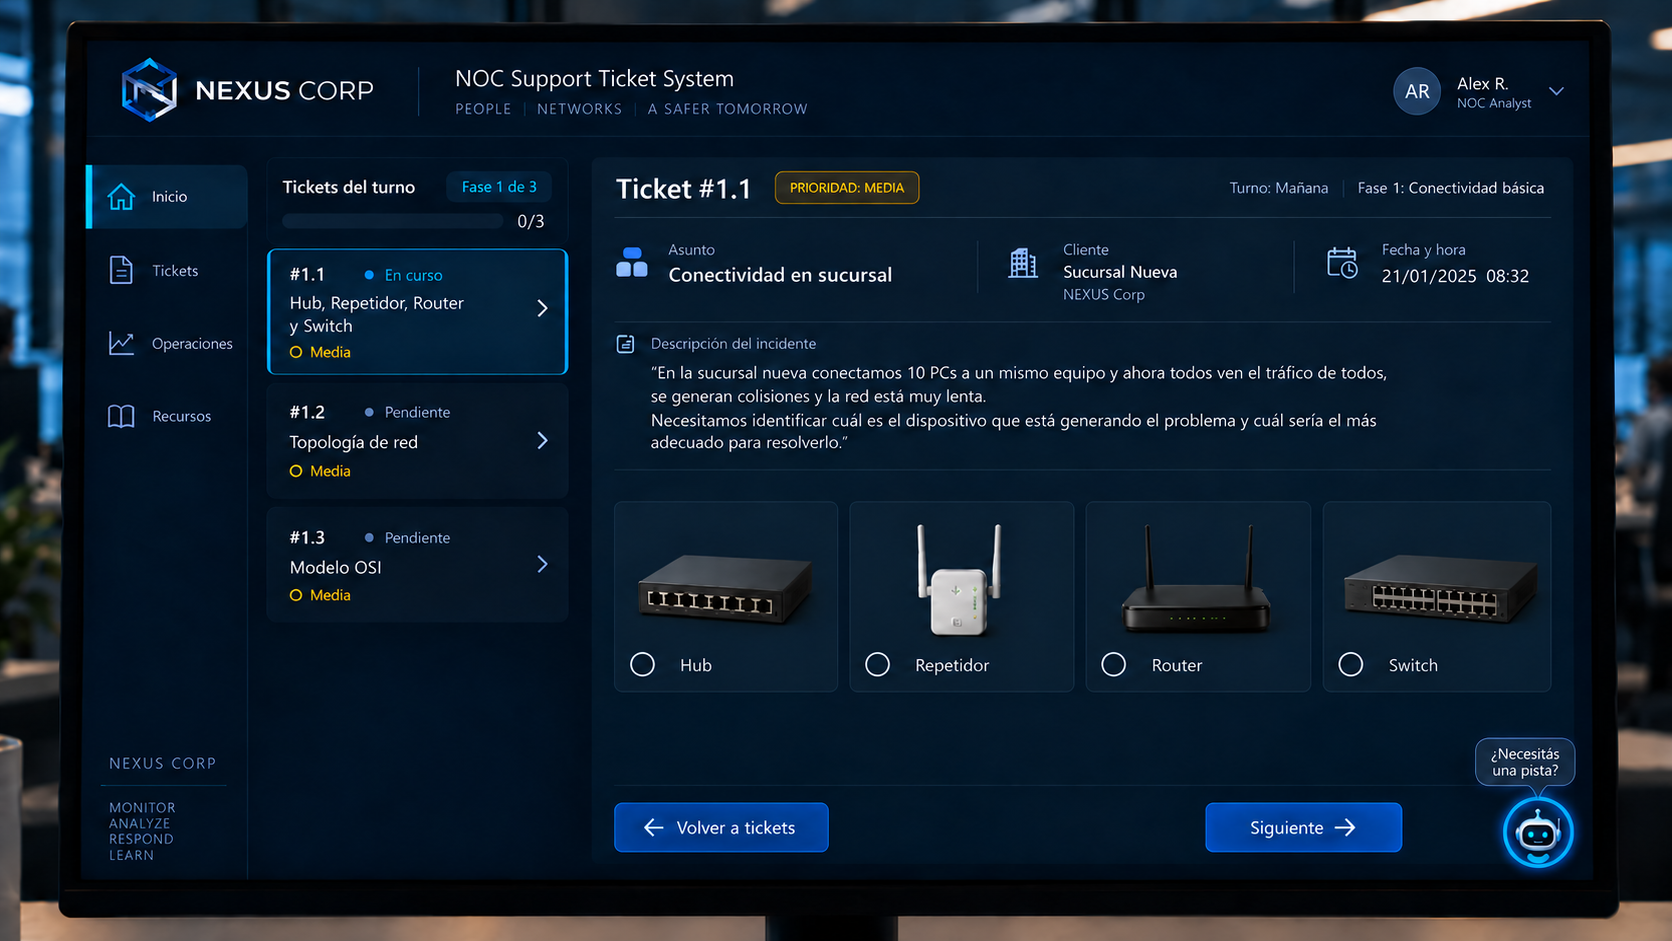
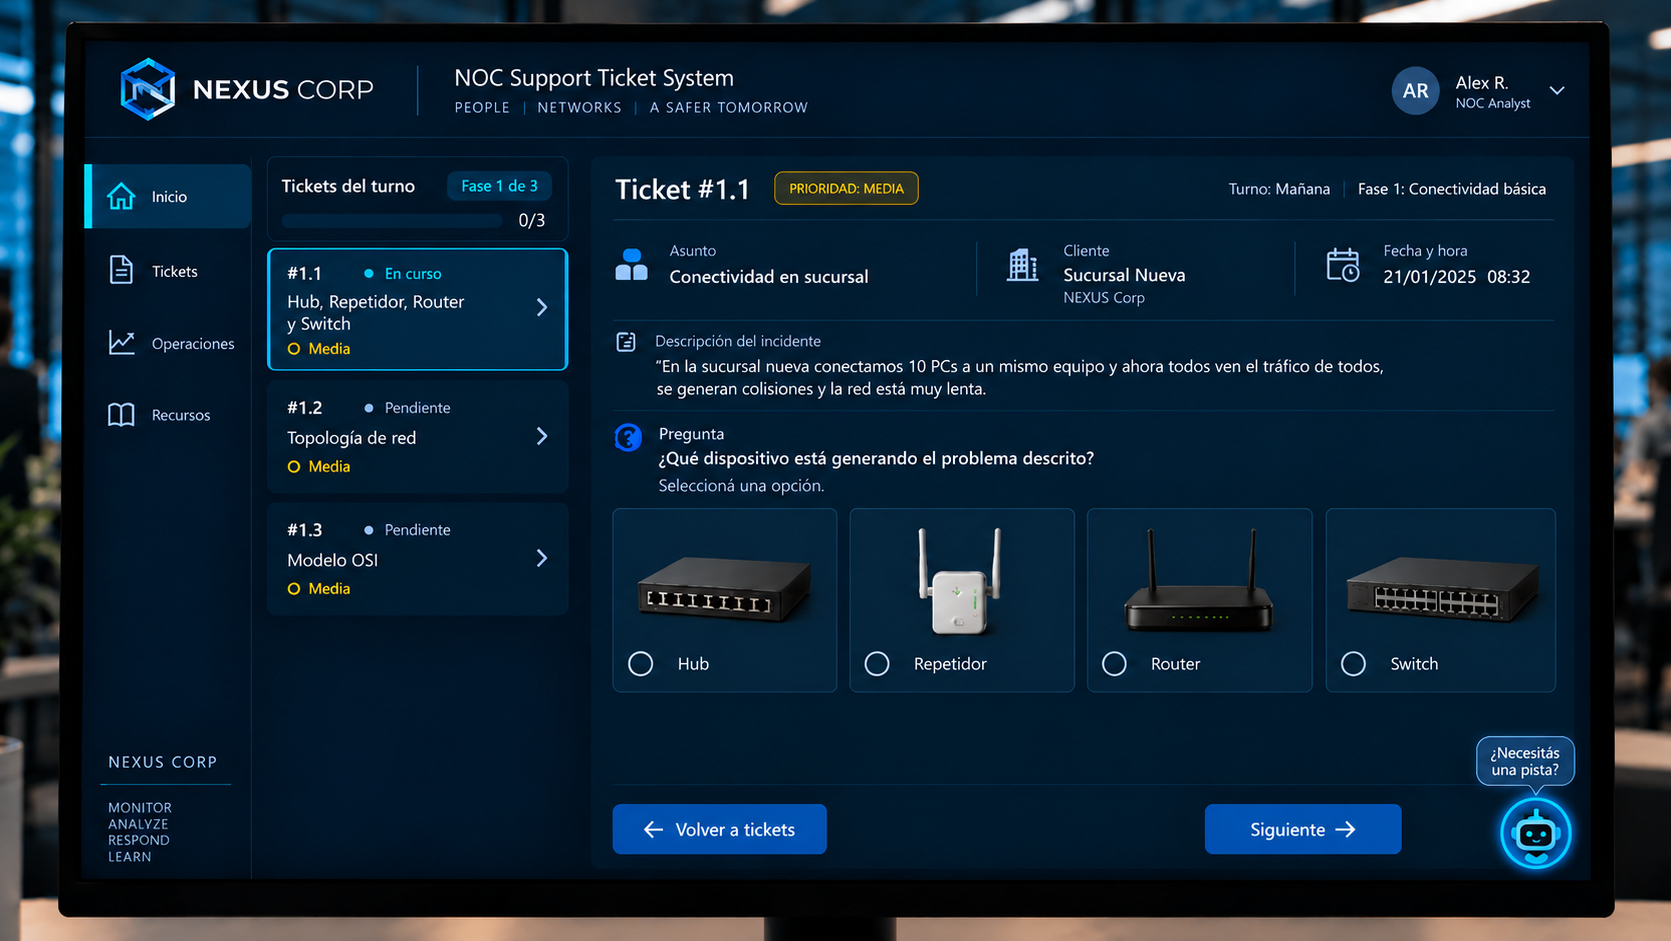
Modificación de Preguntas e Imagenes
Se modificaron las preguntas 1, 3 y 6. También se agregaron las nuevas imágenes de las preguntas 1 y 3.

diff --git a/juego-noc.html b/juego-noc.html
@@ -749,7 +749,7 @@ const FASES = [
       {
         id:"1.1", asunto:"Red lenta y colisiones en Sucursal Nueva", prioridad:"media",
         cliente:"Sucursal Nueva", fecha:"Lun 12/01/2026", hora:"08:05",
-        descripcion:"En la sucursal nueva conectamos 10 PCs a un mismo equipo y ahora todos ven el tráfico de todos, se generan colisiones y la red está muy lenta. Necesitamos identificar cuál es el dispositivo que está generando el problema y cuál sería el más adecuado para resolverlo.",
+        descripcion:"En la sucursal nueva conectamos 10 PCs a un mismo equipo y ahora todos ven el tráfico de todos, se generan colisiones y la red está muy lenta.",
         tipo:"opciones-con-icono", pregunta:"¿Cuál de estos dispositivos está causando el problema?",
         opciones:[
           {id:"hub", t:"Hub", icono:"hub"},
@@ -786,7 +786,7 @@ const FASES = [
       {
         id:"1.3", asunto:"Corte de comunicación - Modelo OSI", prioridad:"media",
         cliente:"Oficina Central, NEXUS Corp", fecha:"Lun 12/01/2026", hora:"09:10",
-        descripcion:"El proveedor de soporte de nivel 3 pide que identifiquemos en qué capa se cortó la comunicación. Para eso, primero debemos ordenar correctamente las capas del modelo OSI.",
+        descripcion:"El proveedor de soporte de nivel 3 pide que identifiquemos en qué capa se cortó la comunicación. Ordená correctamente las capas del modelo OSI, desde la más baja hasta la más alta.",
         tipo:"osi",
         capas:["Aplicación","Presentación","Sesión","Transporte","Red","Enlace de Datos","Física"],
         ordenCorrecto:["Aplicación","Presentación","Sesión","Transporte","Red","Enlace de Datos","Física"],
@@ -876,7 +876,7 @@ const FASES = [
       {
         id:"2.3", asunto:"No resuelve nombres de equipos", prioridad:"media",
         cliente:"Oficina Central, NEXUS Corp", fecha:"Mar 13/01/2026", hora:"14:47",
-        descripcion:"En la doc vieja del cliente aparecen nombres de PC tipo \\\\PC-VENTAS, pero el sistema nuevo pide todo por IP/hostname. Probamos acceder por nombre de equipo:",
+        descripcion:"En la doc vieja del cliente aparecen nombres de PC tipo \PC-VENTAS, pero el sistema nuevo pide todo por IP/hostname. Probamos acceder al equipo usando ese nombre simple de red (sin dominio).",
         tipo:"consola",
         comando:"> ping PC-VENTAS",
         salida:[
